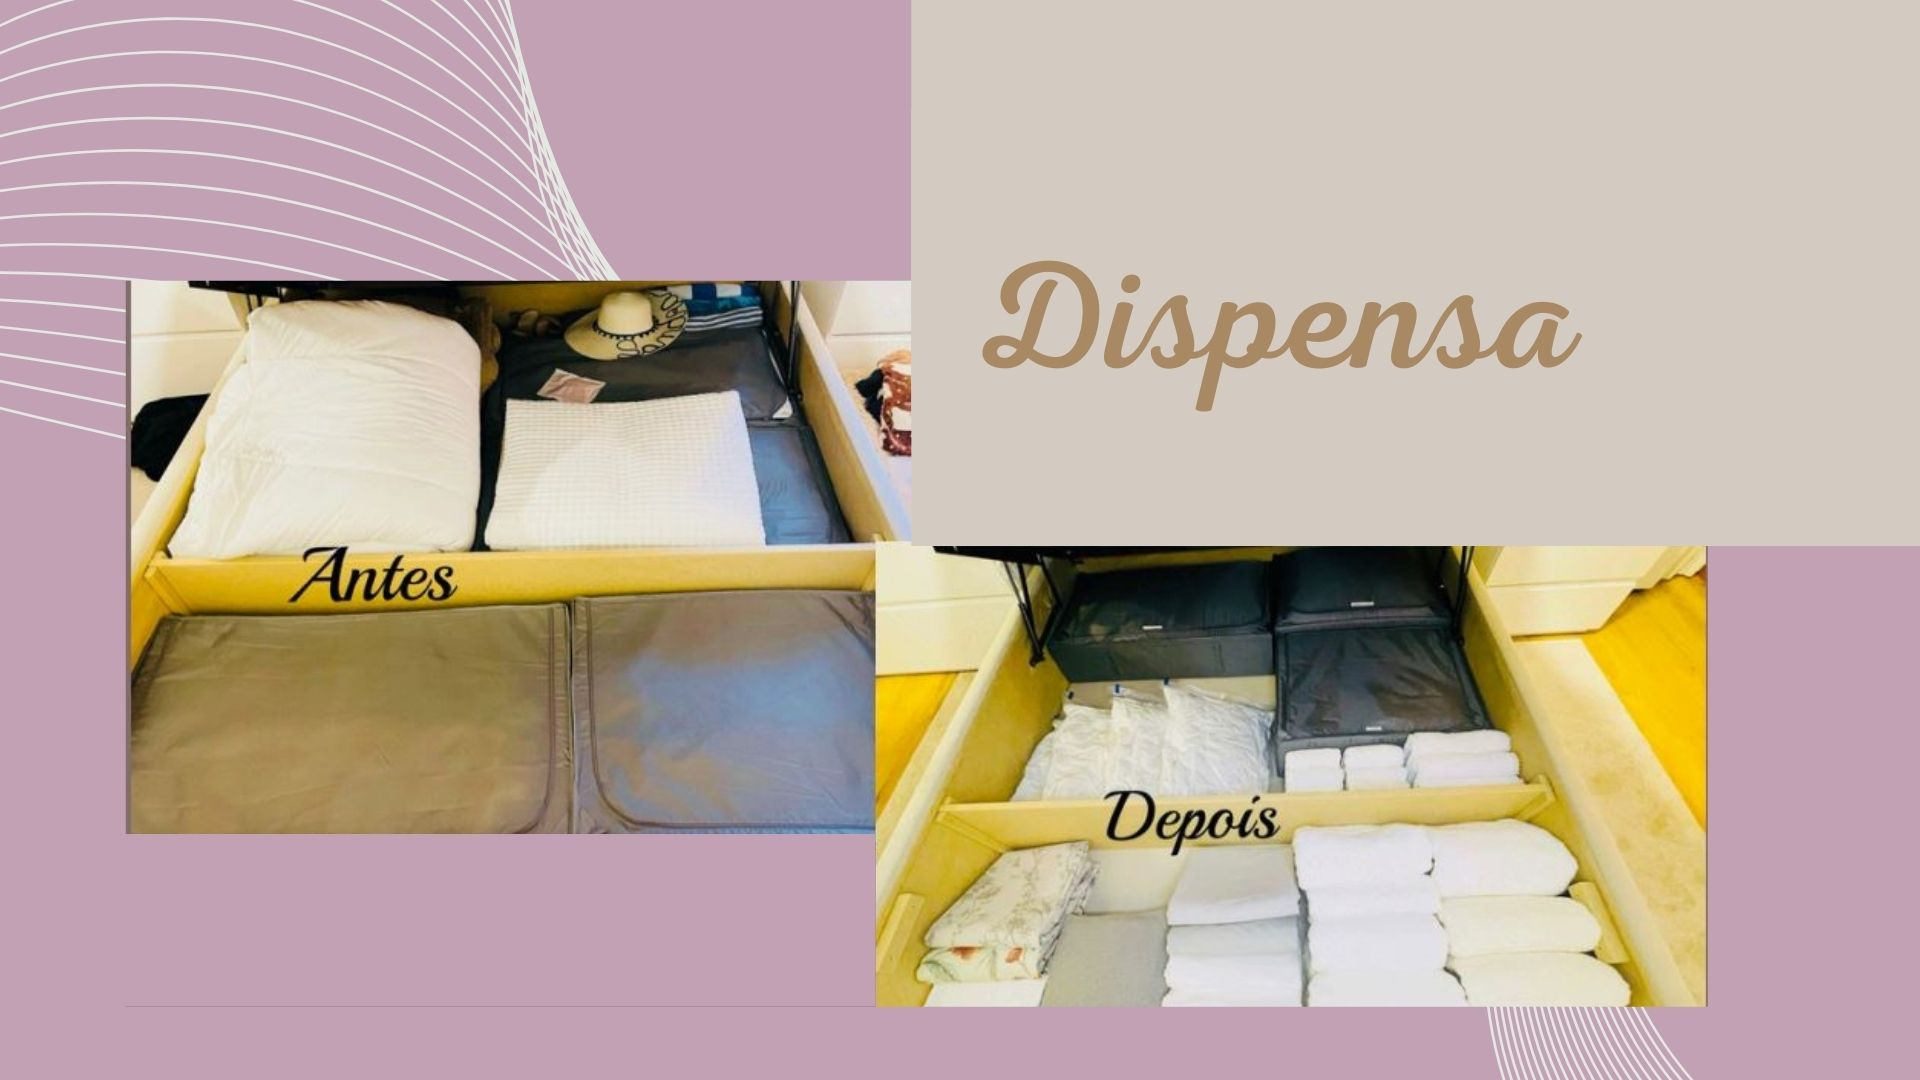
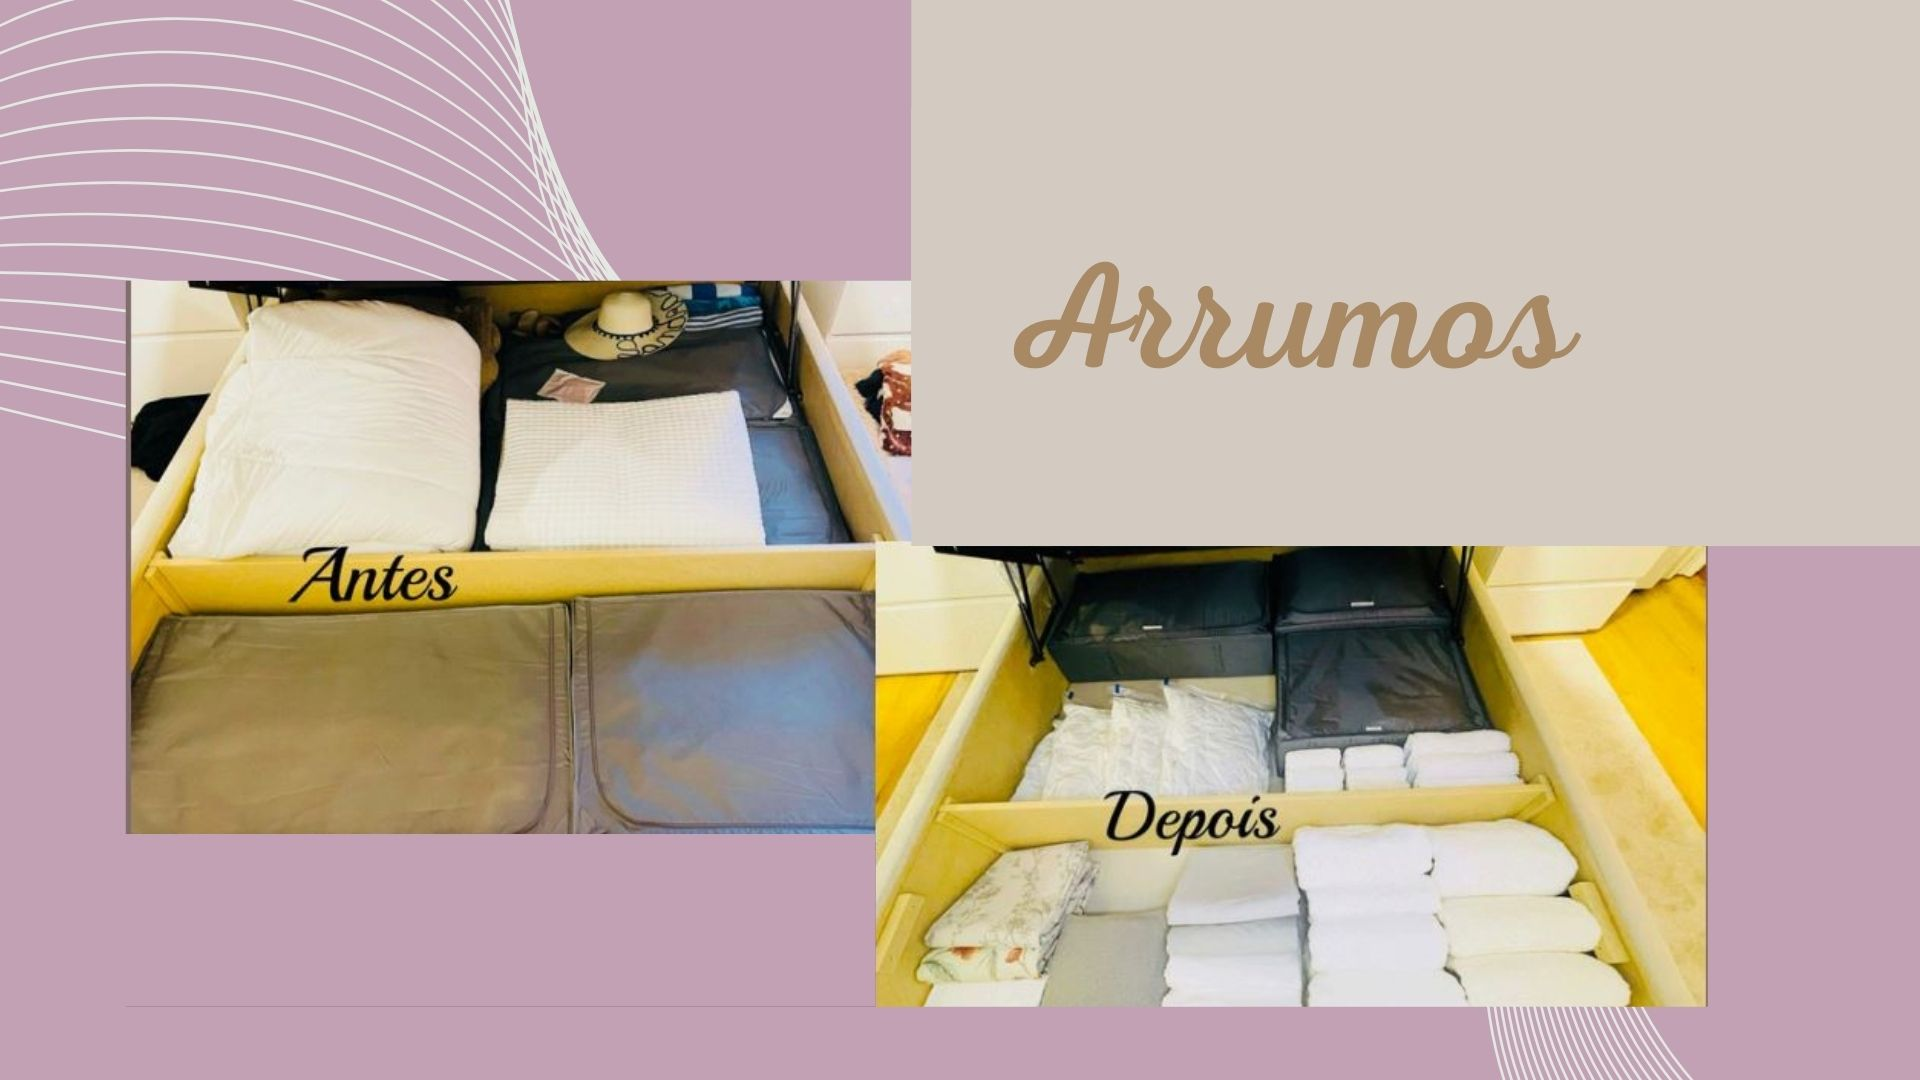
Nova intro apenas para telefones

Changed region(s): [[0.5, 0.2444, 0.7188, 0.3972], [0.75, 0.275, 0.8125, 0.3667]]

diff --git a/intro.js b/intro.js
@@ -1,34 +1,59 @@
 // Elementos do DOM
 const introVideo = document.getElementById('introVideo');
 const introSection = document.getElementById('introSection');
+const introScreenMobile = document.getElementById('intro-screen-mobile');
 
-// Tenta reproduzir o vídeo automaticamente
-function playVideo() {
-    introVideo.play()
-        .then(() => {
-            console.log("Vídeo reproduzido automaticamente.");
-        })
-        .catch(error => {
-            console.error("Erro ao reproduzir o vídeo automaticamente:", error);
-            // Se o autoplay falhar, aguarda a primeira interação do usuário
-            document.body.addEventListener('click', () => {
-                introVideo.play().catch(error => {
-                    console.error("Erro ao reproduzir o vídeo após interação:", error);
-                });
-            }, { once: true }); // Executa apenas uma vez
-        });
+// Função para detectar se é um dispositivo móvel
+function isMobileDevice() {
+    return /Mobi|Android/i.test(navigator.userAgent);
 }
 
-// Tenta reproduzir o vídeo automaticamente ao carregar a página
-playVideo();
+// Lógica para dispositivos móveis
+if (isMobileDevice()) {
+    console.log("Dispositivo móvel detectado. Exibindo introdução com imagem.");
 
-// Quando o vídeo termina
-introVideo.addEventListener('ended', () => {
-    console.log("Vídeo terminou. Redirecionando...");
-    introSection.classList.add('hidden');
+    // Mostra a introdução com imagem
+    introScreenMobile.style.display = 'flex';
 
-    // Após a transição, redireciona para a página principal
+    // Redireciona após a animação
     setTimeout(() => {
-        window.location.href = "main.html";
-    }, 1000); // Tempo suficiente para completar a animação
-});
+        introScreenMobile.style.animation = 'fadeOutMobile 2s ease-out forwards';
+        setTimeout(() => {
+            window.location.href = "main.html";
+        }, 2000); // Tempo do fade-out
+    }, 3000); // Duração da animação de abertura
+} else {
+    // Lógica para computadores (vídeo)
+    console.log("Computador detectado. Exibindo introdução com vídeo.");
+
+    // Tenta reproduzir o vídeo automaticamente
+    function playVideo() {
+        introVideo.play()
+            .then(() => {
+                console.log("Vídeo reproduzido automaticamente.");
+            })
+            .catch(error => {
+                console.error("Erro ao reproduzir o vídeo automaticamente:", error);
+                // Se o autoplay falhar, aguarda a primeira interação do usuário
+                document.body.addEventListener('click', () => {
+                    introVideo.play().catch(error => {
+                        console.error("Erro ao reproduzir o vídeo após interação:", error);
+                    });
+                }, { once: true }); // Executa apenas uma vez
+            });
+    }
+
+    // Tenta reproduzir o vídeo automaticamente ao carregar a página
+    playVideo();
+
+    // Quando o vídeo termina
+    introVideo.addEventListener('ended', () => {
+        console.log("Vídeo terminou. Redirecionando...");
+        introSection.classList.add('hidden');
+
+        // Após a transição, redireciona para a página principal
+        setTimeout(() => {
+            window.location.href = "main.html";
+        }, 1000); // Tempo suficiente para completar a animação
+    });
+}

diff --git a/main.css b/main.css
@@ -102,7 +102,7 @@ header#menu {
 #barra {
     position: relative; /* Define o ponto de referência para os elementos absolutos */
     width: 100%; /* Ocupa toda a largura */
-    height: 350px; /* Altura fixa */
+    height: 380px; /* Altura fixa */
     background: #a98963; /* Fundo */
     padding: 0px;
     box-sizing: border-box; /* Inclui padding no cálculo de largura */
@@ -130,19 +130,19 @@ header#menu {
 /* Botão de Telefone */
 #barra .contacts .phone-btn {
     position: absolute;
-    top: 50px; /* Ajuste para cima/baixo */
+    top: 80px; /* Ajuste para cima/baixo */
     left: 47px; /* Ajuste para a direita/esquerda */
 }
 
 #barra .contacts .phone-btn img {
-    width: 400px; /* Largura do botão */
-    height: 100px;
+    width: 420px; /* Largura do botão */
+    height: 120px;
 }
 
 /* Botão de Email */
 #barra .contacts .email-btn {
     position: absolute;
-    top: 230px; /* Ajuste vertical */
+    top: 270px; /* Ajuste vertical */
     left: 30px; /* Ajuste horizontal */
 }
 
@@ -154,7 +154,7 @@ header#menu {
 /* Botão de Instagram */
 #barra .contacts .instagram-btn {
     position: absolute;
-    top: 140px; /* Ajuste vertical */
+    top: 180px; /* Ajuste vertical */
     left: 40px; /* Ajuste horizontal */
 }
 
@@ -408,7 +408,7 @@ header#menu {
 
 /* Seção Investir */
 #investir {
-    min-height: 650px;
+    min-height: 700px;
     background: url('images/investimento-agenda.jpg') no-repeat center center/cover;
     background-size: 100% auto; 
     display: flex;
@@ -419,7 +419,7 @@ header#menu {
     text-align: center;
     color: white;
     margin-top: 0px; /* Remove a margem superior */
-    margin-bottom: 100px; /* Remove a margem superior */
+    margin-bottom: 50px; /* Remove a margem superior */
 }
 
 /* Ajustes para dispositivos móveis */

diff --git a/index.html b/index.html
@@ -5,9 +5,15 @@
     <meta name="viewport" content="width=device-width, initial-scale=1.0">
     <title>Meu Portfólio</title>
     <link rel="stylesheet" href="styles/main.css">
+    <link rel="stylesheet" href="styles/intro.css"> <!-- Estilo adicional para animação de imagem -->
 </head>
 <body>
-    <!-- Vídeo de introdução para mobile -->
+    <!-- Tela de introdução para dispositivos móveis -->
+    <div id="intro-screen-mobile" style="display: none;">
+        <img src="images/intro-image.jpg" alt="Minha Introdução">
+    </div>
+
+    <!-- Vídeo de introdução para computadores -->
     <div id="intro-video-mobile">
         <video 
             autoplay 
@@ -22,18 +28,6 @@
         </video>
     </div>
 
-    <!-- Conteúdo principal (aparecerá após a transição) -->
-    <div id="main-content" style="display: none;">
-        <h1>Bem-vindo ao Meu Portfólio!</h1>
-        <p>Esta é a página principal.</p>
-    </div>
-
-    <script>
-        // Exibe o conteúdo principal se o vídeo não carregar
-        document.getElementById('intro-canva').addEventListener('error', () => {
-            document.getElementById('intro-video-mobile').style.display = 'none';
-            document.getElementById('main-content').style.display = 'block';
-        });
-    </script>
+    <script src="scripts/intro.js"></script>
 </body>
 </html>

diff --git a/intro.css b/intro.css
@@ -44,10 +44,59 @@ body, html {
     }
 }
 
+/* Estilo para dispositivos móveis */
+#intro-screen-mobile {
+    position: fixed;
+    top: 0;
+    left: 0;
+    width: 100%;
+    height: 100%;
+    display: flex;
+    align-items: center;
+    justify-content: center;
+    background-color: #000; /* Fundo preto */
+    z-index: 9999;
+    overflow: hidden; /* Evita rolagem */
+    display: none; /* Inicialmente oculto */
+}
+
+/* Imagem central com efeito de abertura */
+#intro-screen-mobile img {
+    width: 100%;
+    height: auto;
+    animation: openEffect 3s ease-in-out forwards;
+    transform-origin: center;
+}
+
+/* Animação de abertura */
+@keyframes openEffect {
+    0% {
+        transform: scale(1);
+    }
+    50% {
+        transform: scale(1.1);
+    }
+    100% {
+        transform: scale(1.2);
+    }
+}
+
+/* Fade-out da tela móvel */
+@keyframes fadeOutMobile {
+    to {
+        opacity: 0;
+        visibility: hidden;
+    }
+}
+
 /* Media Queries para Ajustes Específicos */
 @media (max-width: 768px) {
     #introSection {
         height: 50vh; /* Ajuste a altura conforme necessário para dispositivos menores */
+    }
+
+    #intro-screen-mobile {
+        display: flex; /* Ativa a introdução para dispositivos móveis */
     }
 }
 
